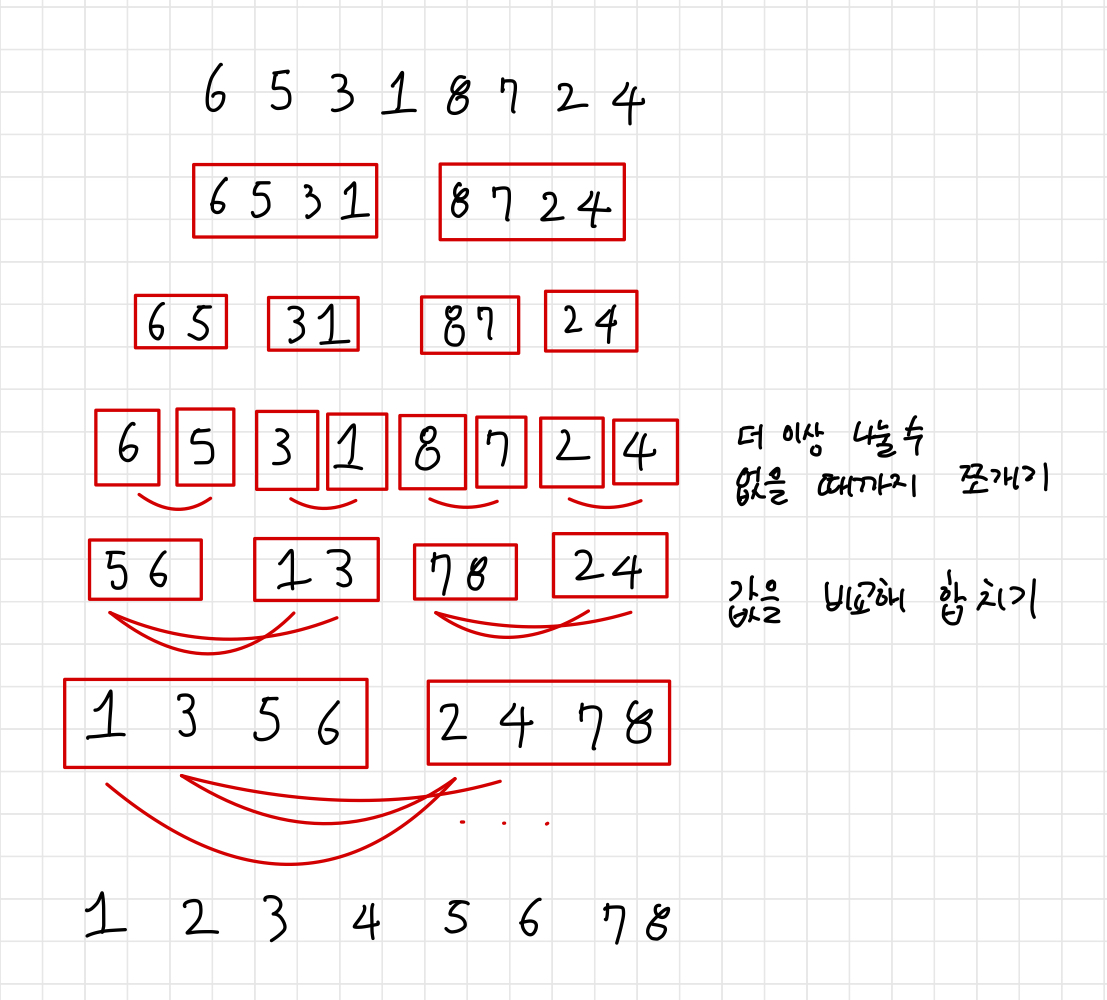
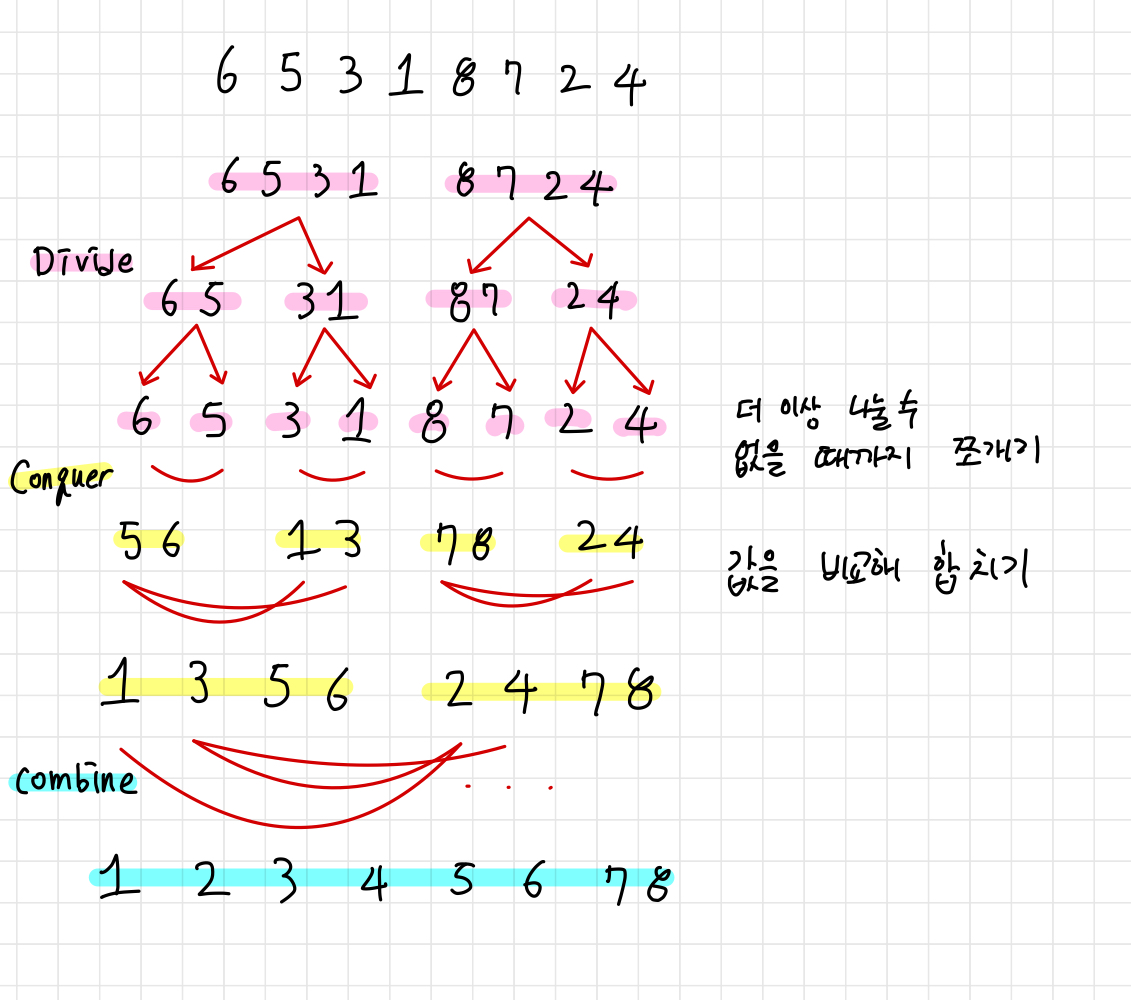
add: merge sort md

diff --git a/Algorithm_Notes/Merge_sort.md b/Algorithm_Notes/Merge_sort.md
@@ -6,4 +6,46 @@
 
 분할 정복(Devide and Conquer) 기법과 재귀 알고리즘을 이용
 
+1. 예제에서는 8->4->2->1 식으로 반복의 수는 점점 절반으로 줄어든다. O(logN)
+2. 각 패스에서 병합할 때 모든 값을 비교해야한다. O(N)
+3. 따라서 총 시간 복잡도는 O(NlogN)
+
 주어진 배열을 원소가 하나 밖에 남지 않을 때까지 계속 둘로 쪼갠 후에 다시 크기 순으로 재배열 하면서 원래 크기의 배열로 합친다.
+
+```
+unsorted_list = [10-i for i in range(10)]
+
+def mergeSort(unsorted_list):
+    // list의 길이가 1보다 작으면 그대로 return
+    if len(unsorted_list)<=1:
+        return unsorted_list
+
+    // list를 반으로 나눔
+    mid=len(unsorted_list)//2
+    left=MergeSort(unsorted_list[:mid])
+    right=MergeSort(unsorted_list[mid:])
+
+    return Merge(left, right)
+
+def merge(left, right):
+    result = []
+    while len(left) > 0 or len(right) > 0:
+        if len(left) > 0 and len(right) > 0:
+            if left[0] <= right[0]:
+                result.append(left[0])
+                left = left[1:]
+            else:
+                result.append(right[0])
+                right = right[1:]
+        elif len(left) > 0:
+            result.append(left[0])
+            left = left[1:]
+        elif len(right) > 0:
+            result.append(right[0])
+            right = right[1:]
+    return result
+
+
+print(unsorted_list)
+print(mergeSort(unsorted_list))
+```
